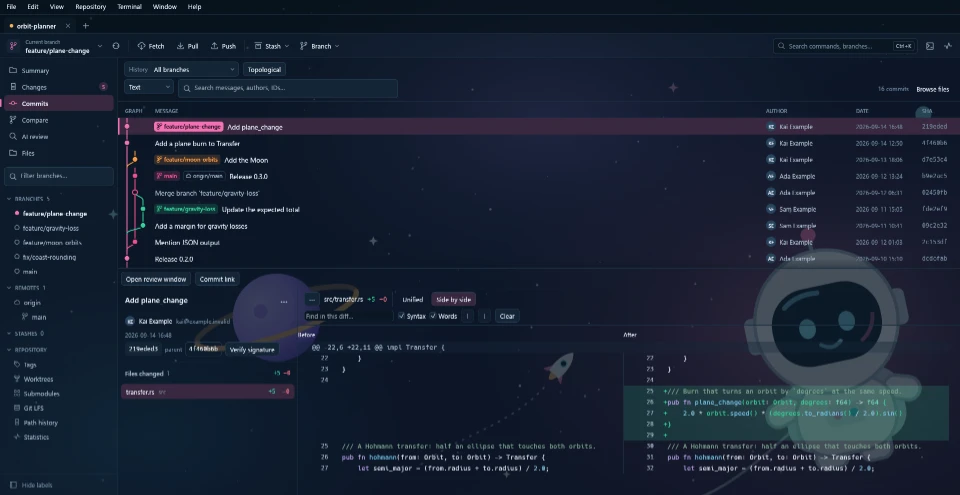
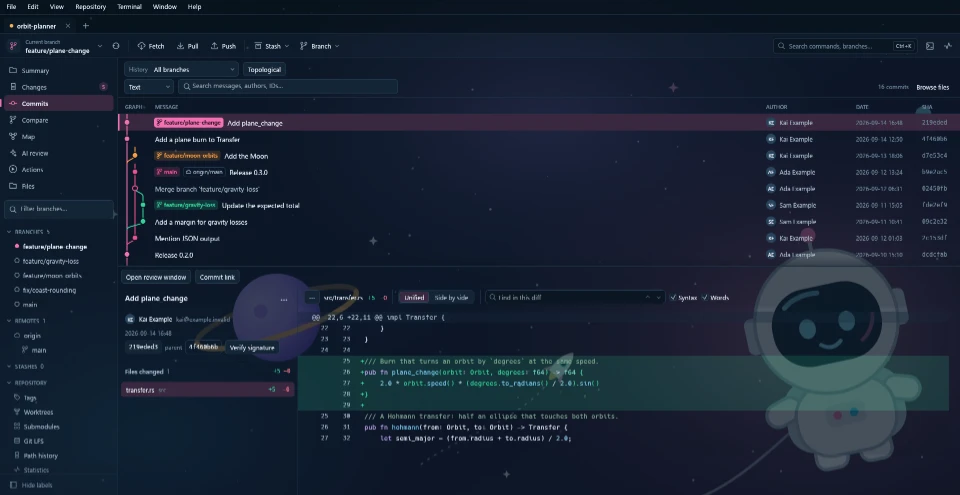
Show Clay on the website and at the top of the README
The website's themes section now leads with Clay, the default, and its
Follow Windows, Dark and Light mode, with Ocean named as Rocket's
original navy. Six fresh 960x495 Commits pictures (Clay dark, Clay
light, Ocean, Dark, Light, Custom) replace the old Default one, and the
capture tools in tools/website make them. The README opens with the Clay
picture, light or dark to match the reader's GitHub theme.

The site is not published; its other pictures still show the earlier
themes.

diff --git a/tools/website/media.html b/tools/website/media.html
@@ -10,13 +10,14 @@ const WEBP = .9, JPEG = .86, FPS = 30;
 const PICTURES = [
   ['hero-dark', 'changes-unified', 0, 0, 1920, 990], ['hero-light', 'changes-unified-light', 0, 0, 1920, 990],
   ['split-dark', 'changes-split', 596, 236, 1304, 536], ['split-light', 'changes-split-light', 596, 236, 1304, 536],
-  ['history-dark', 'commits-default', 236, 116, 944, 420], ['history-light', 'commits-light', 236, 116, 944, 420],
+  ['history-dark', 'commits-clay-dark', 236, 116, 944, 420], ['history-light', 'commits-clay-light', 236, 116, 944, 420],
   ['rebase-dark', 'rebase', 415, 240, 690, 220], ['rebase-light', 'rebase-light', 415, 240, 690, 220],
   ['conflict-dark', 'conflict', 236, 116, 1684, 874], ['conflict-light', 'conflict-light', 236, 116, 1684, 874],
   ['cards-dark', 'proposal', 1552, 245, 356, 276], ['cards-light', 'proposal-light', 1552, 245, 356, 276],
   ['lua-dark', 'lua-2', 236, 116, 1684, 874], ['lua-light', 'lua-light', 236, 116, 1684, 874],
   ['review-dark', 'review', 639, 239, 643, 540], ['review-light', 'review-light', 639, 239, 643, 540],
-  ['theme-default', 'commits-default', 0, 0, 1920, 990, 960], ['theme-dark', 'commits-dark', 0, 0, 1920, 990, 960],
+  ['theme-clay-dark', 'commits-clay-dark', 0, 0, 1920, 990, 960], ['theme-clay-light', 'commits-clay-light', 0, 0, 1920, 990, 960],
+  ['theme-ocean', 'commits-ocean', 0, 0, 1920, 990, 960], ['theme-dark', 'commits-dark', 0, 0, 1920, 990, 960],
   ['theme-light', 'commits-light', 0, 0, 1920, 990, 960], ['theme-custom', 'commits-custom', 0, 0, 1920, 990, 960]
 ];
 
@@ -26,14 +27,14 @@ const THEMES = [0, 0, 792];
 const SCENES = [
   { shot: 'changes-unified', dur: 2.6, cap: 'Review every change', path: [[1180, 560, 0], [908, 176, 1.8]], clicks: [2.0], crop: [640, 236, 432], pp: [[900, 640, 0], [730, 362, 1.8]] },
   { shots: [[0, 'stage-0'], [1.1, 'stage-1'], [1.8, 'stage-2'], [3.0, 'stage-3']], area: [596, 116, 1324, 683], dur: 3.8, cap: 'Stage files, hunks or lines', path: [[1000, 560, 0], [1361, 403, 1.0], [1361, 425, 1.7], [1020, 176, 2.8]], clicks: [1.1, 1.8, 2.9], crop: [1340, 236, 432], pp: [[1560, 700, 0], [1361, 403, 1.0], [1361, 425, 1.7]], pclicks: [1.1, 1.8] },
-  { shots: [[0, 'commits-default'], [2.2, 'commit-selected']], dur: 3.2, cap: 'Follow every branch', path: [[1000, 420, 0], [270, 319, 1.0], [286, 452, 1.7], [700, 353, 2.1]], clicks: [2.2], crop: [236, 216, 432], pp: [[600, 640, 0], [270, 319, 1.0], [286, 452, 1.7], [520, 353, 2.1]], pclicks: [2.2] },
+  { shots: [[0, 'commits-clay-dark'], [2.2, 'commit-selected']], dur: 3.2, cap: 'Follow every branch', path: [[1000, 420, 0], [270, 319, 1.0], [286, 452, 1.7], [700, 353, 2.1]], clicks: [2.2], crop: [236, 216, 432], pp: [[600, 640, 0], [270, 319, 1.0], [286, 452, 1.7], [520, 353, 2.1]], pclicks: [2.2] },
   { shot: 'conflict', dur: 2.8, cap: 'Resolve conflicts in three columns', path: [[640, 640, 0], [1520, 188, 2.0]], clicks: [2.2], crop: [806, 330, 432], pp: [[1150, 760, 0], [1060, 400, 2.0]] },
   { shot: 'proposal', dur: 3.2, cap: 'Read an AI proposal first', path: [[1520, 188, 0], [1880, 345, 1.2], [1830, 200, 2.6]], clicks: [2.8], crop: [1548, 230, 364], pp: [[1800, 640, 0], [1885, 345, 2.0]] },
   { shots: [[0, 'lua-0'], [1.3, 'lua-1'], [2.5, 'lua-2'], [3.3, 'lua-3']], dur: 4.2, cap: 'Add your own features', path: [[900, 560, 0], [1879, 148, 1.2], [1163, 568, 2.4], [1163, 568, 3.2]], clicks: [1.3, 2.5, 3.3], crop: [1090, 130, 640], pp: [[1500, 800, 0], [1163, 568, 2.4], [1163, 568, 3.2]], pclicks: [2.5, 3.3] },
   { shots: [[0, 'palette-r'], [.5, 'palette-reb'], [1.0, 'palette-rebase']], dur: 2.2, cap: 'Find any command with Ctrl+K', path: null, crop: [640, 70, 640] },
-  { shot: 'commits-default', dur: 1.1, cap: 'Make the window yours', path: null, crop: THEMES },
-  { shot: 'commits-dark', dur: 1.0, cap: 'Make the window yours', path: null, keep: true, crop: THEMES },
-  { shot: 'commits-light', dur: 1.0, cap: 'Make the window yours', path: null, keep: true, crop: THEMES },
+  { shot: 'commits-clay-dark', dur: 1.1, cap: 'Make the window yours', path: null, crop: THEMES },
+  { shot: 'commits-clay-light', dur: 1.0, cap: 'Make the window yours', path: null, keep: true, crop: THEMES },
+  { shot: 'commits-ocean', dur: 1.0, cap: 'Make the window yours', path: null, keep: true, crop: THEMES },
   { shot: 'commits-custom', dur: 1.5, cap: 'Make the window yours', path: null, keep: true, crop: THEMES },
   { end: true, dur: 2.4 }
 ];
@@ -188,7 +189,7 @@ async function video(phone, bitrate, name) {
 async function social() {
   size(1200, 630);
   g.fillStyle = '#0A1621'; g.fillRect(0, 0, 1200, 630);
-  const screen = images['commits-default'];
+  const screen = images['commits-clay-dark'];
   g.drawImage(screen, 230, 110, 1000, 690, 560, 96, 880, 607);
   g.strokeStyle = '#243E56'; g.lineWidth = 2; g.strokeRect(560, 96, 880, 607);
   g.drawImage(LOGO, 72, 96, 96, 96);
@@ -216,7 +217,7 @@ async function social() {
       await video(false, 3000000, 'demo-wide.mp4');
       await video(true, 1200000, 'demo-phone.mp4');
     }
-    if (images['commits-default']) await social();
+    if (images['commits-clay-dark']) await social();
     await post('/done', '');
   } catch (e) { await post('/fail', String(e && e.stack || e)); }
 })();

diff --git a/docs/index.html b/docs/index.html
@@ -177,10 +177,12 @@
   <div class="two">
     <div><span class="ref mono">themes</span>
       <h2 id="h-themes">Make the window yours.</h2></div>
-    <div><p>Default, Dark, Light and System, or Custom with your own accent colour and a picture behind the window.</p></div>
+    <div><p>Clay, the default, is warm charcoal with a coral accent, or ivory with terracotta. It follows Windows, or stays dark or light. Ocean is Rocket's original navy. Dark, Light and System are there too, or Custom with your own accent colour and a picture behind the window.</p></div>
   </div>
   <div class="thumbs">
-    <figure><img src="media/theme-default.webp" width="960" height="495" loading="lazy" alt="The Commits page in the Default navy theme."><figcaption>Default</figcaption></figure>
+    <figure><img src="media/theme-clay-dark.webp" width="960" height="495" loading="lazy" alt="The Commits page in the default Clay theme, dark: warm charcoal with a coral accent."><figcaption>Clay dark</figcaption></figure>
+    <figure><img src="media/theme-clay-light.webp" width="960" height="495" loading="lazy" alt="The Commits page in the default Clay theme, light: ivory with a terracotta accent."><figcaption>Clay light</figcaption></figure>
+    <figure><img src="media/theme-ocean.webp" width="960" height="495" loading="lazy" alt="The Commits page in Ocean, Rocket's original navy theme."><figcaption>Ocean</figcaption></figure>
     <figure><img src="media/theme-dark.webp" width="960" height="495" loading="lazy" alt="The Commits page in the Dark graphite theme."><figcaption>Dark</figcaption></figure>
     <figure><img src="media/theme-light.webp" width="960" height="495" loading="lazy" alt="The Commits page in the Light theme."><figcaption>Light</figcaption></figure>
     <figure><img src="media/theme-custom.webp" width="960" height="495" loading="lazy" alt="The Commits page in a Custom theme with a pink accent and the Astronaut picture behind the window."><figcaption>Custom</figcaption></figure>

diff --git a/docs/site.css b/docs/site.css
@@ -77,7 +77,7 @@ h1 span{color:var(--accent);display:block}
 .c.wide{display:block}
 .two{display:grid;grid-template-columns:minmax(0,5fr) minmax(0,6fr);column-gap:56px;align-items:start}
 .two>div>p:first-child{margin-top:0}
-.thumbs{display:grid;grid-template-columns:repeat(4,minmax(0,1fr));gap:16px;margin-top:36px}
+.thumbs{display:grid;grid-template-columns:repeat(3,minmax(0,1fr));gap:16px;margin-top:36px}
 .thumbs figure{margin:0;min-width:0}
 .thumbs img{display:block;width:100%;height:auto;border:1px solid var(--border);border-radius:8px}
 .thumbs figcaption{margin-top:8px;font-size:14.5px;color:var(--soft)}

diff --git a/README.md b/README.md
@@ -22,6 +22,13 @@
   <a href="CHANGELOG.md">Changelog</a>
 </p>
 
+<p align="center">
+  <picture>
+    <source media="(prefers-color-scheme: light)" srcset="docs/media/theme-clay-light.webp">
+    <img src="docs/media/theme-clay-dark.webp" width="960" alt="The Commits page in Clay, Rocket's default theme: a branch graph with merges, the selected commit's details and its diff.">
+  </picture>
+</p>
+
 ## What is Rocket?
 
 Rocket is an open-source alternative to Fork and GitKraken Desktop for Windows. It
